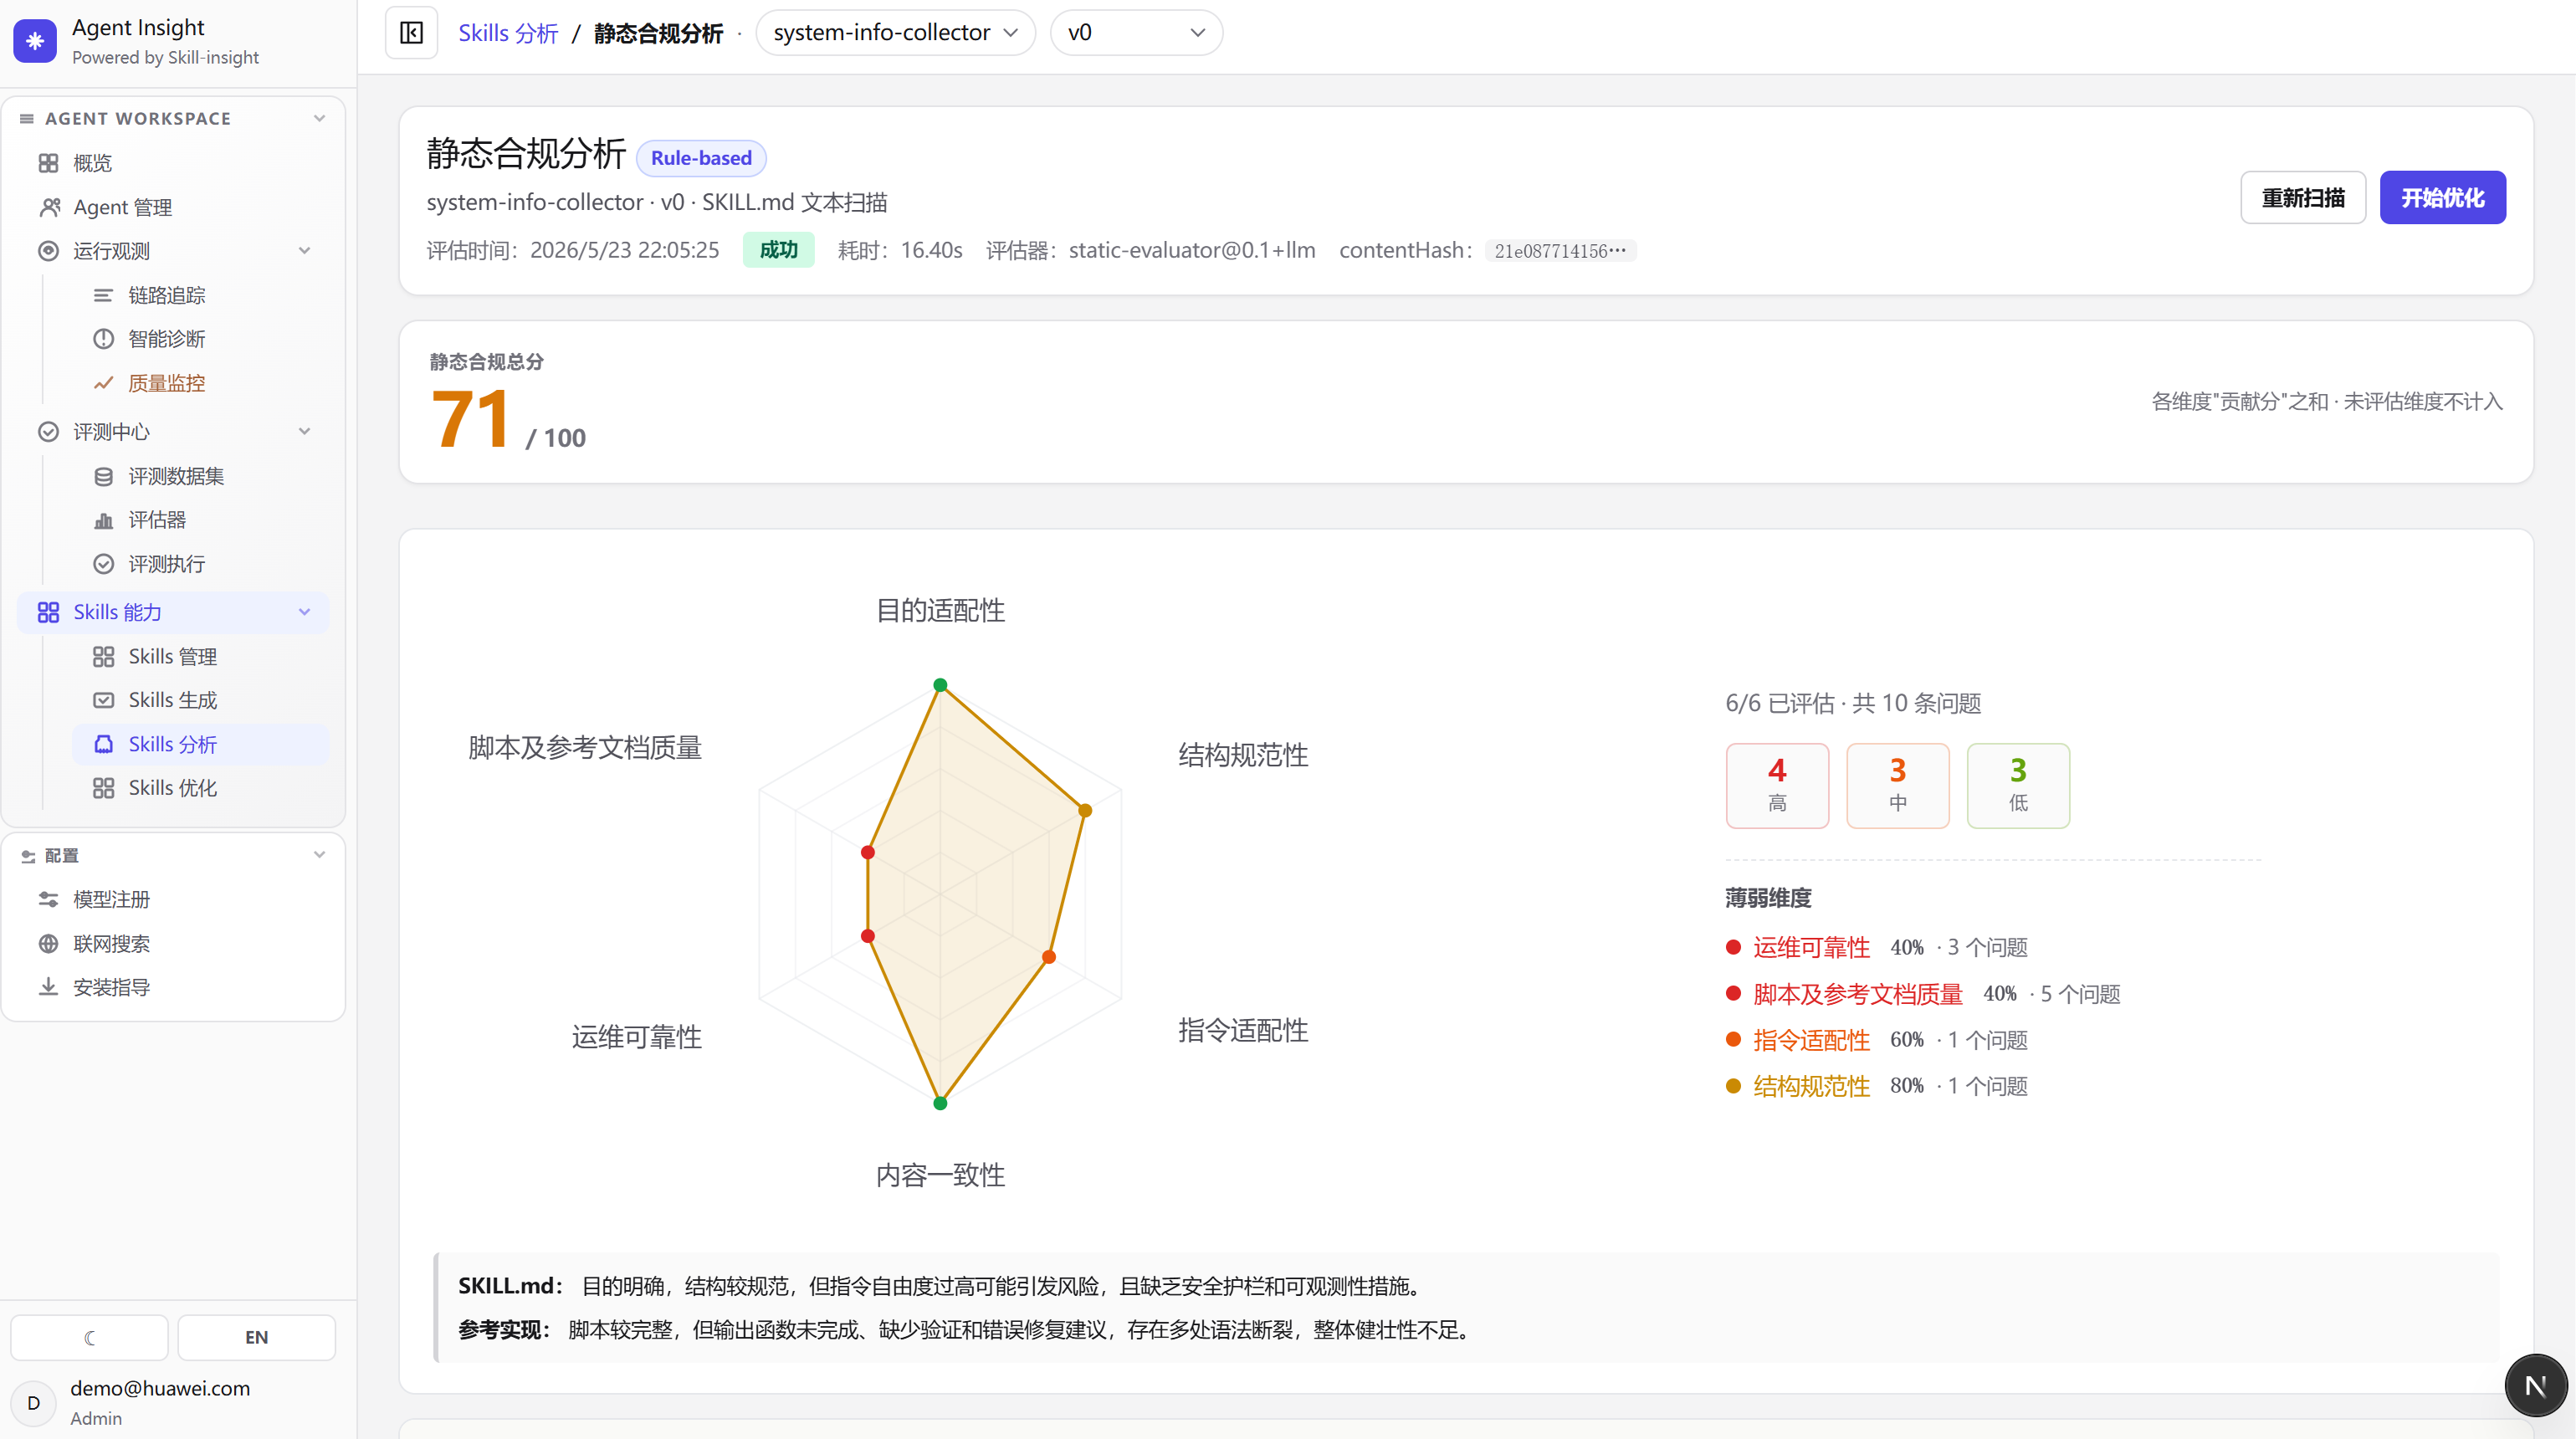
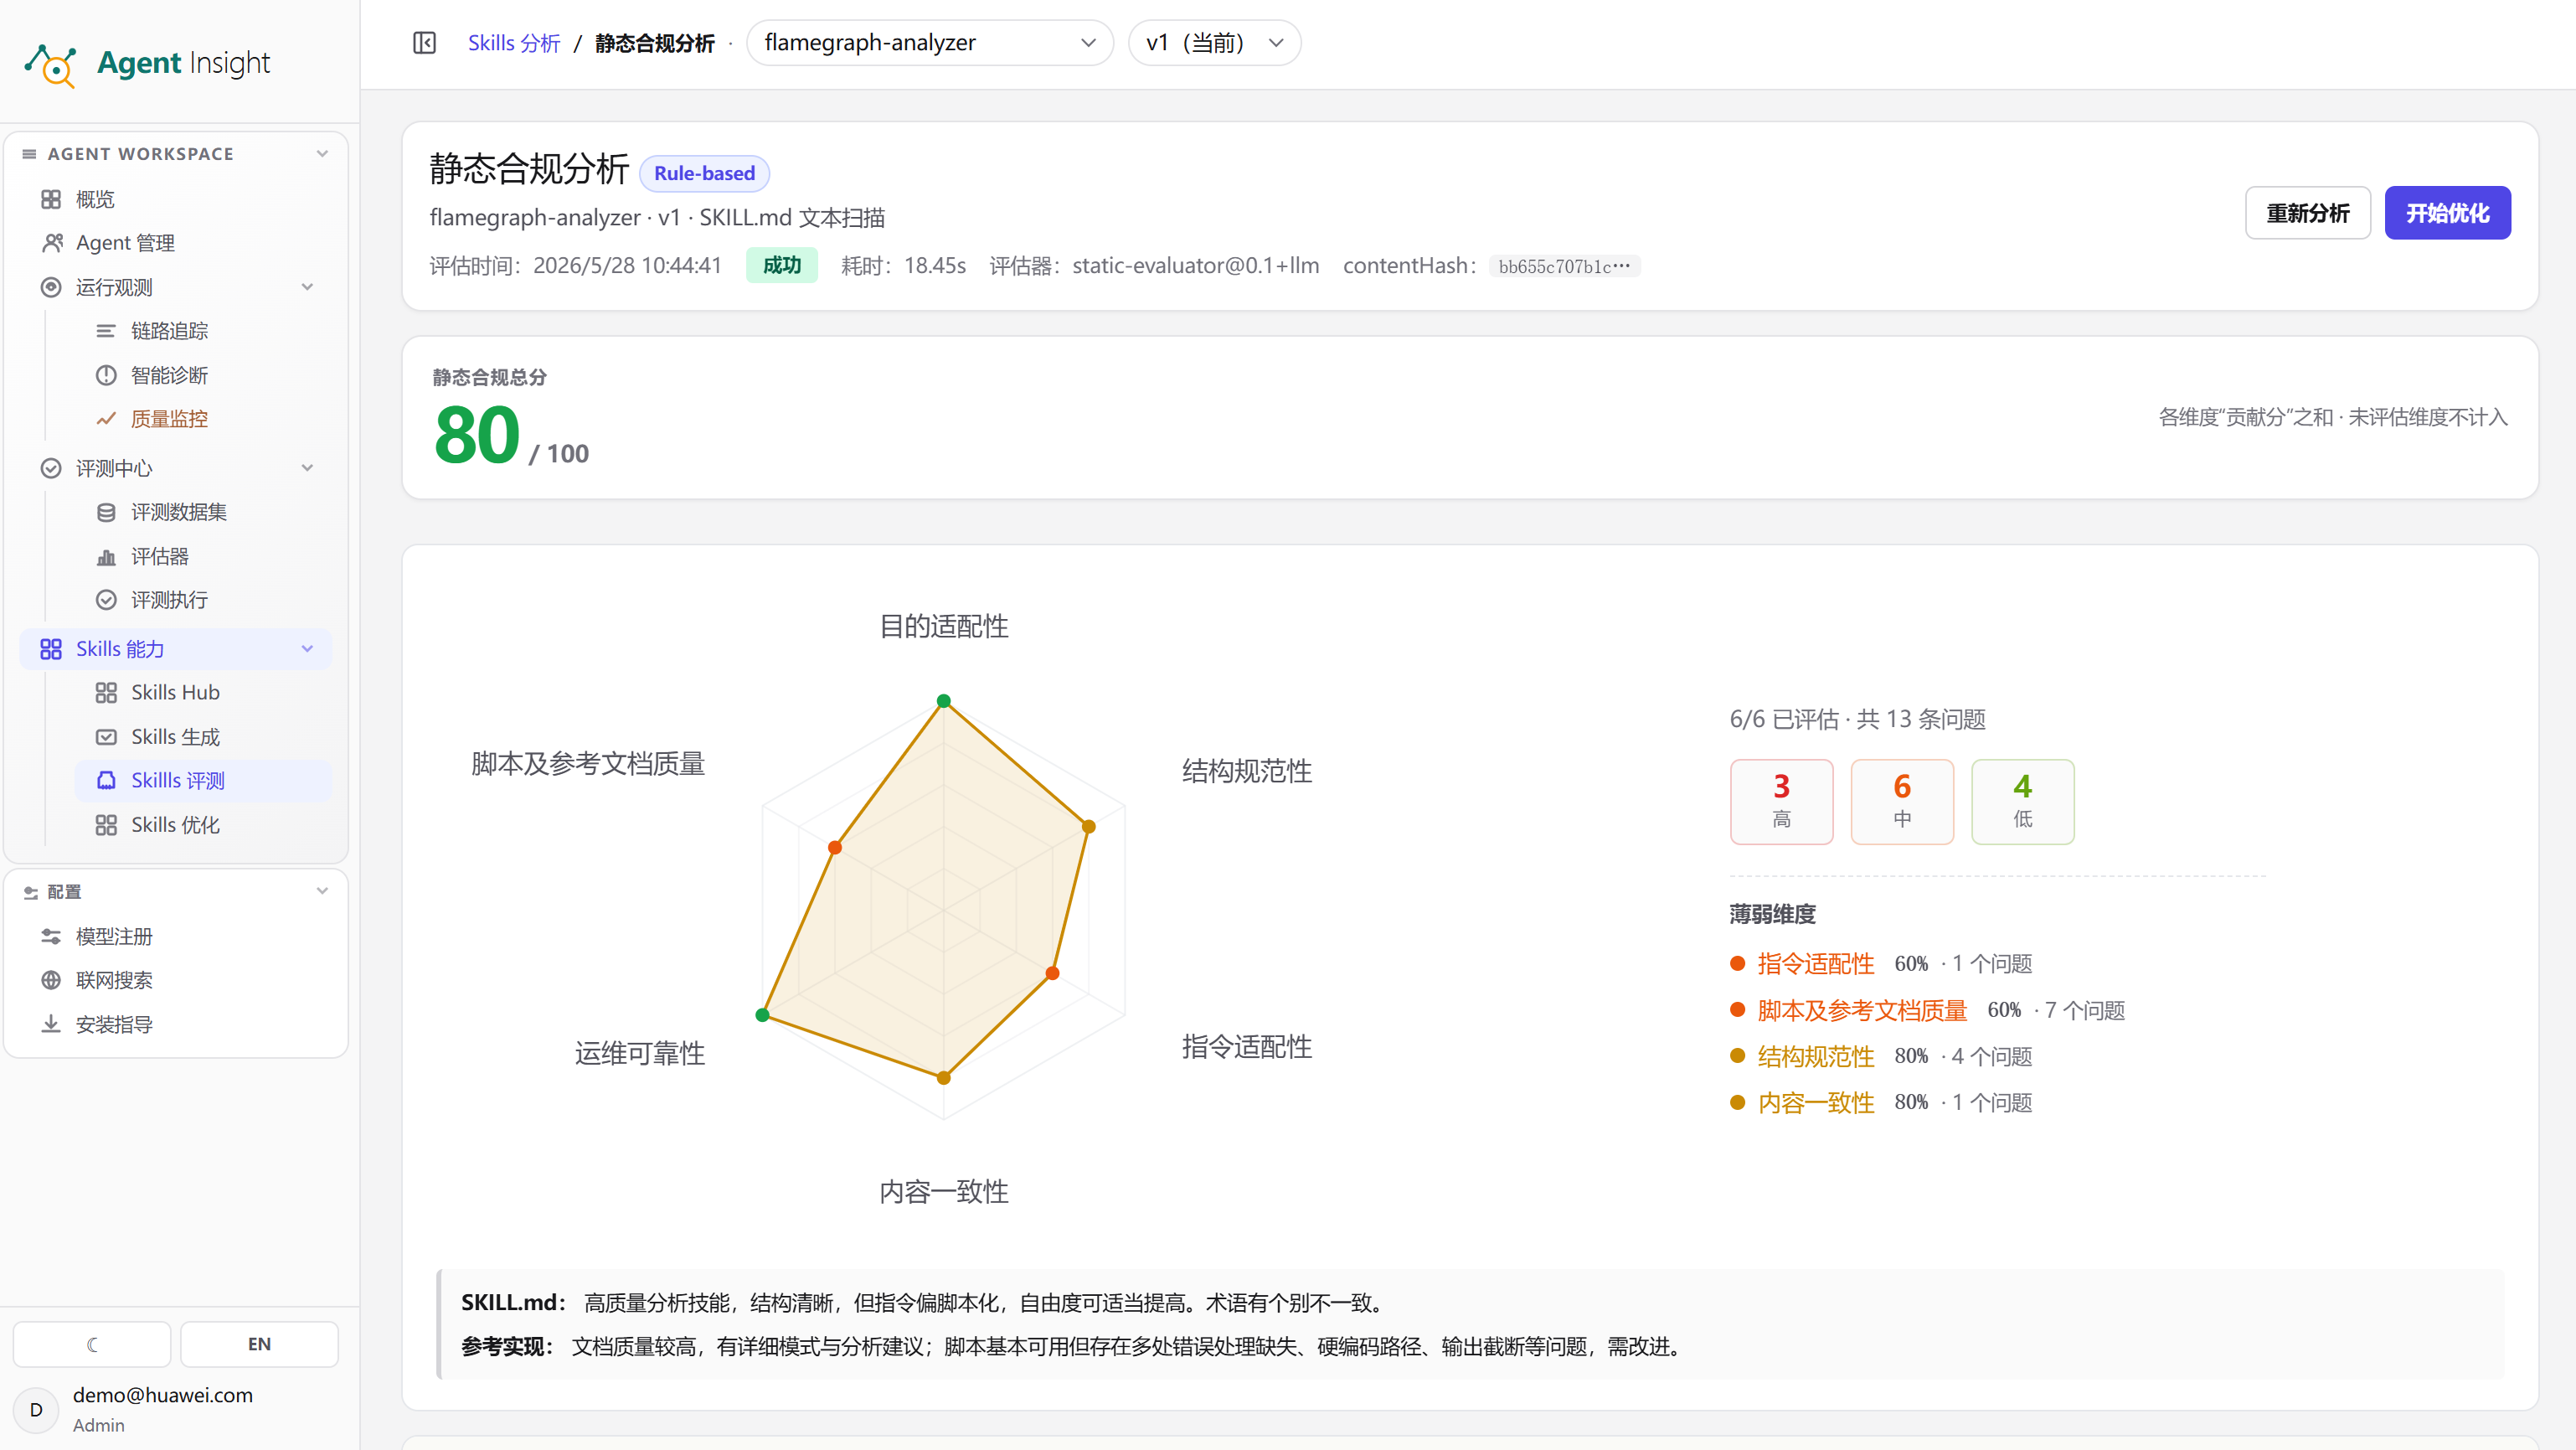
纠正README.md错误描述和界面截图

diff --git a/README.md b/README.md
@@ -1,10 +1,10 @@
-# Agent-Insight
+# Agent Insight
 
 **让每一个 Agent 都可被观测、可被评估、可自我进化。**
 
-## 为什么需要 Agent-Insight？
+## 为什么需要 Agent Insight？
 
-随着 Agent 在各行业的落地，开发者面临三大痛点：Agent 运行过程如同黑盒，难以定位问题根因；Skill 质量参差不齐，缺少体系化的评测与迭代手段；Agent 经验无法沉淀复用，每次优化都从零开始。Agent-Insight 正是为解决这些问题而生——它是一个框架无关的 Agent Insight 工程底座，让运行在 OpenCode、Claude Code、LangChain、OpenClaw 等任意框架上的 Agent 都能被持续观测、系统评测和自主优化。
+随着 Agent 在各行业的落地，开发者面临三大痛点：Agent 运行过程如同黑盒，难以定位问题根因；Skill 质量参差不齐，缺少体系化的评测与迭代手段；Agent 经验无法沉淀复用，每次优化都从零开始。Agent-Insight 正是为解决这些问题而生——它是一个框架无关的Agent可观测与自进化工程底座，让运行在 OpenCode、Claude Code、LangChain、OpenClaw 等任意框架上的 Agent 都能被持续观测、系统评测和自主优化。
 
 ## 架构
 
@@ -13,7 +13,7 @@
 ## 核心能力
 
 - **Agent观测与自进化**：围绕运行数据采集 → 链路跟踪 → 评测分析 → 经验沉淀 → 辅助决策，构建 Agent 全生命周期的数据飞轮，将运行数据转化为实时决策能力，持续提升 Agent 运行效能。
-- **Skill 开发与自进化**：围绕 Skill 生成 → 调试 → 观测 → 评估 → 优化，构建全生命周期能力闭环，将 Skill 打造为可持续进化的工程资产，提升开发效率与运行效能。
+- **Skill 开发与自进化**：围绕 Skill 生成 → 观测 → 评测 → 优化 → 版本管理，构建全生命周期能力闭环，将 Skill 打造为可持续进化的工程资产，提升开发效率与运行效能。
 
 ---
 
@@ -48,15 +48,6 @@ npx @witty-ai/agen-insight install
 git clone https://gitcode.com/openeuler/witty-agent-insight.git
 cd witty-agent-insight
 npm install
-
-# 开发模式
-bash scripts/restart_dev.sh
-
-# 生产模式
-bash scripts/restart.sh
-
-# 配置数据上报路径
-curl -sSf http://<IP>:<PORT>/api/setup | bash
 ```
 
 #### 启动服务
@@ -64,16 +55,17 @@ curl -sSf http://<IP>:<PORT>/api/setup | bash
 ```bash
 cd witty-agent-insight
 
-# 开发模式
+# 启动命令（二选一）
+# 开发模式：支持本地代码变更实时热加载，无需重启服务
 bash scripts/restart_dev.sh
 
-# 生产模式
+# 产模式：标准正式服务启动模式
 bash scripts/restart.sh
 ```
 
 #### 访问看板
 
-浏览器打开 `http://localhost:3000`，使用任意邮箱登录即可，例如 `[email redacted]`。
+浏览器访问 `http://{your host ip}:3000`，使用任意邮箱登录即可，例如 `[email redacted]`。
 <img src="docs/images/login.png" alt="登陆" />
 
 ### 安装客户端
@@ -88,7 +80,7 @@ bash scripts/restart.sh
 curl -sSf "http://172.29.209.207:3000/api/ingest/setup" | bash
 ```
 
-3. 选择 Agent 运行时。
+3. 选择 Agent 框架。
    
    <img src="docs/images/guide-framework.png" alt="安装指导"  />
 
@@ -115,9 +107,11 @@ opencode run 'hello'
 ### 注册模型
 
 1. 进入 **模型注册**，单击 **注册首个模型**。
+   
    <img src="docs/images/model-view.png" alt="注册模型" />
 
 2. 选择模型供应商。
+   
    <img src="docs/images/model-provider.png" alt="选择模型供应商" />
 
 3. 配置 API 密钥，单击 **测试连接并保存**。
@@ -134,9 +128,10 @@ opencode run 'hello'
 
 2. 单击 **保存并发布**。
 
-### 分析 Skill
+### 评测 Skill
 
-1. 进入 **Skills 分析**，单击 **静态合规**。
+1. 进入 **Skills 评测**，单击 **静态合规**。
+   
    <img src="docs/images/skill-analyse.png" alt="分析Skill" />
 
 2. 单击 **重新扫描**，查看分析结果。